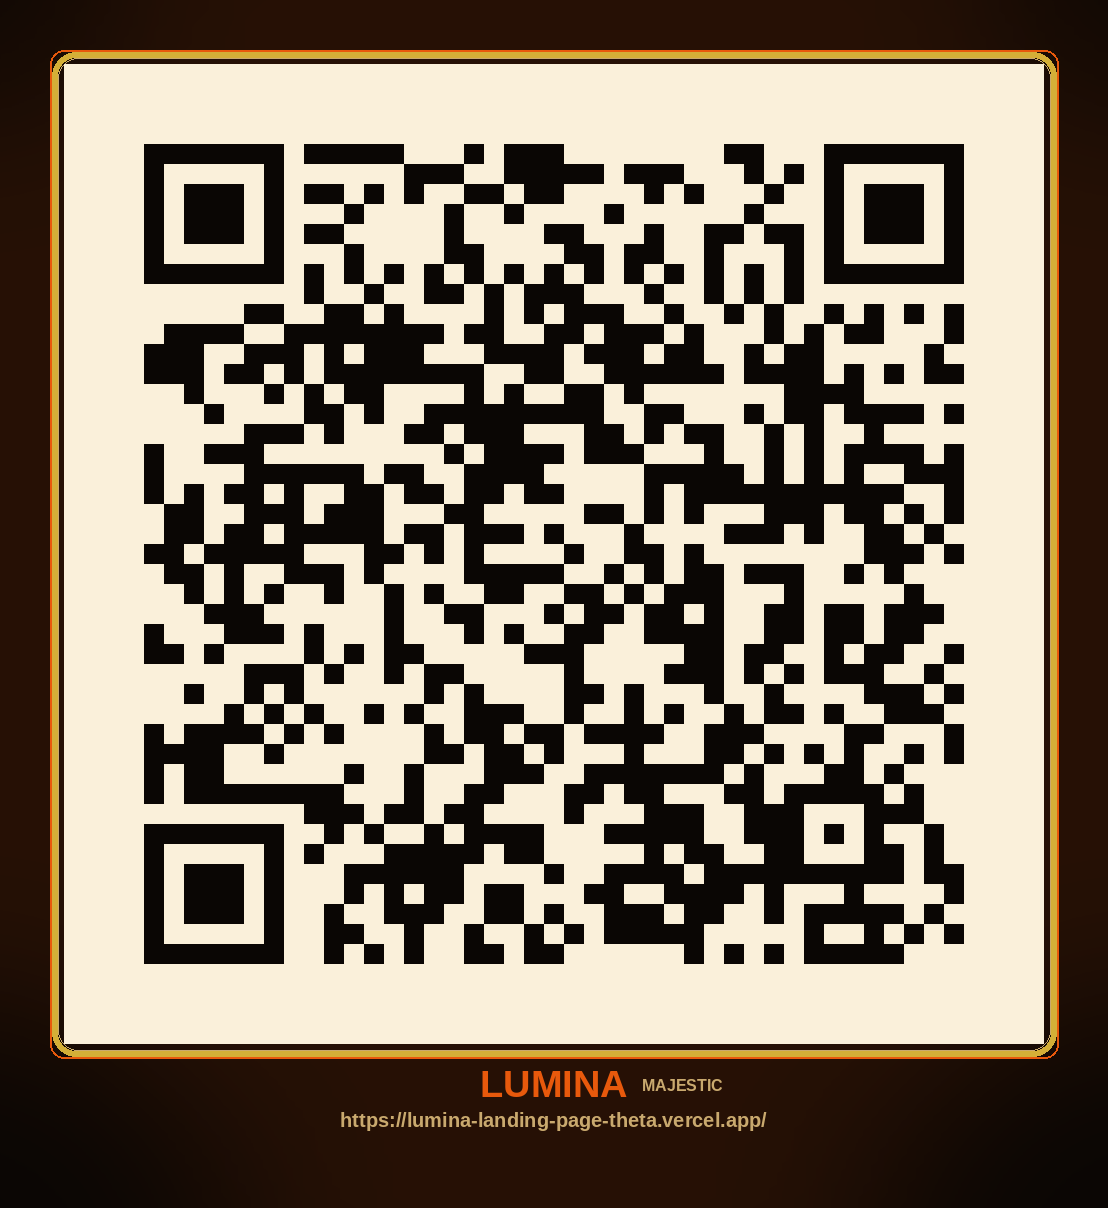
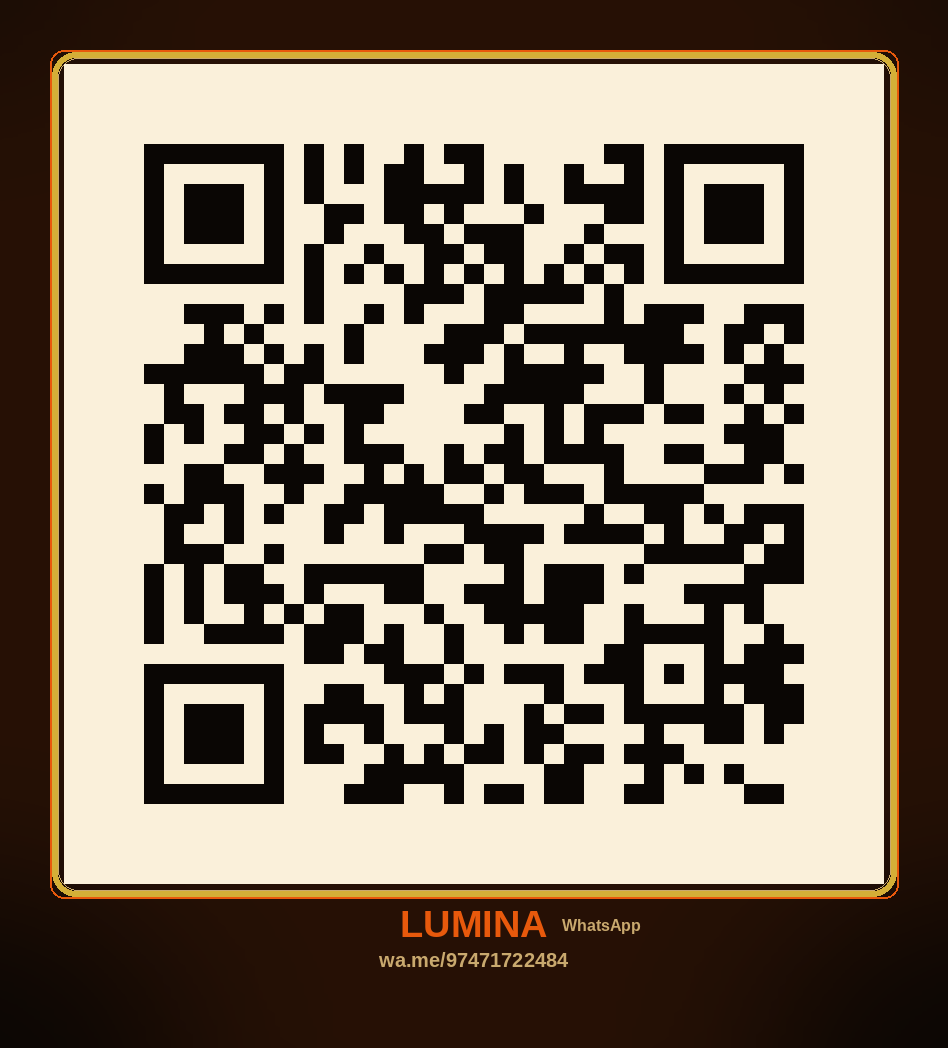
fix: QR code now links to WhatsApp instead of self
The QR previously pointed to the landing page URL itself, which would
have just opened the same page the visitor was already on. Switched
the encoded URL to https://wa.me/97471722484 so scanning it from a
mobile device opens a WhatsApp chat with the brand directly.

- public/lumina-qr.png: regenerated with wa.me link, caption now
  shows 'WhatsApp' tag and 'wa.me/97471722484' URL underneath
- footer.tsx: link href, alt, aria-label, and caption updated to
  reflect WhatsApp semantics ('امسح للتواصل', 'للدردشة السريعة
  على واتساب')

diff --git a/src/components/footer.tsx b/src/components/footer.tsx
@@ -121,27 +121,27 @@ export default function Footer() {
             </div>
           </div>
 
-          {/* QR Code — brand-colored landing page link */}
+          {/* QR Code — brand-colored WhatsApp link */}
           <div className="flex flex-col items-center md:items-start">
             <h4
               className="text-xs font-bold tracking-[0.25em] uppercase mb-6"
               style={{ color: "var(--accent-champagne)" }}
             >
-              امسح للزيارة
+              امسح للتواصل
             </h4>
             <a
-              href="https://lumina-landing-page-theta.vercel.app/"
+              href="https://wa.me/97471722484"
               target="_blank"
               rel="noopener noreferrer"
               className="group block transition-transform duration-300 hover:scale-[1.04]"
-              aria-label="امسح الباركود لزيارة صفحة LUMINA"
+              aria-label="امسح الباركود لفتح محادثة واتساب"
             >
               <div className="relative rounded-2xl p-1.5 border border-[rgba(212,175,55,0.25)] hover:border-[rgba(212,175,55,0.55)] shadow-gold-lg transition-all duration-300">
                 <Image
                   src="/lumina-qr.png"
-                  alt="باركود LUMINA — امسح للوصول للصفحة"
+                  alt="باركود LUMINA — امسح لفتح محادثة واتساب"
                   width={170}
-                  height={185}
+                  height={188}
                   className="rounded-xl w-[170px] h-auto block"
                   priority={false}
                 />
@@ -149,7 +149,7 @@ export default function Footer() {
             </a>
             <div className="mt-3 flex items-center gap-2 text-xs" style={{ color: "var(--text-muted)" }}>
               <ScanLine className="w-3.5 h-3.5" style={{ color: "var(--accent-primary)" }} />
-              <span>للوصول السريع عبر الموبايل</span>
+              <span>للدردشة السريعة على واتساب</span>
             </div>
           </div>
         </div>
